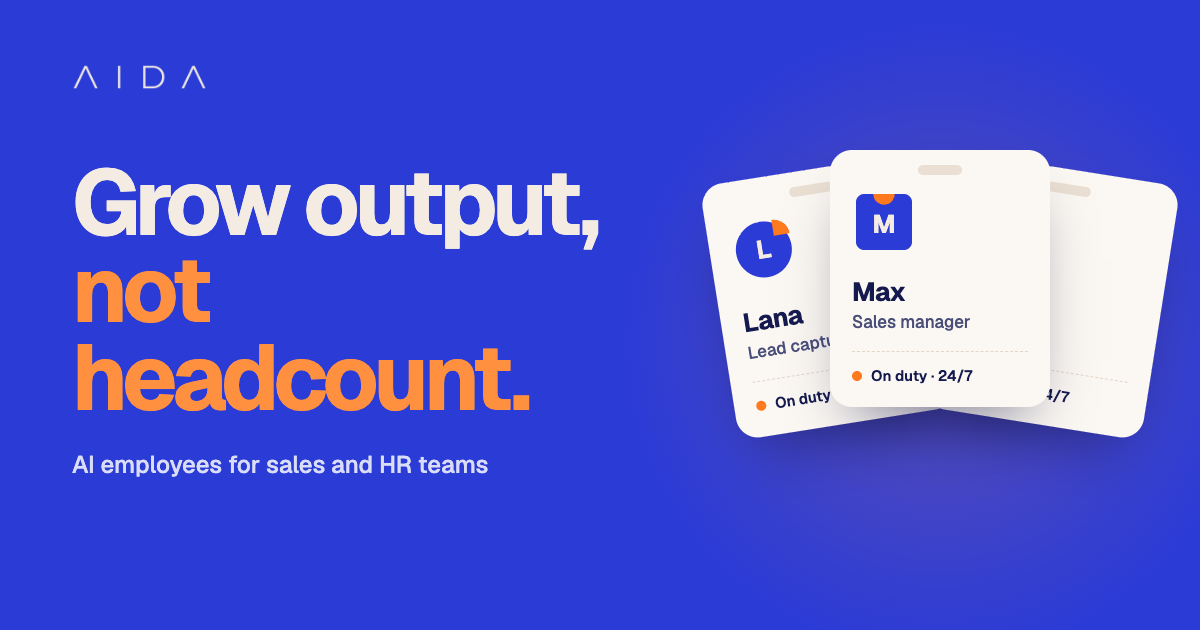
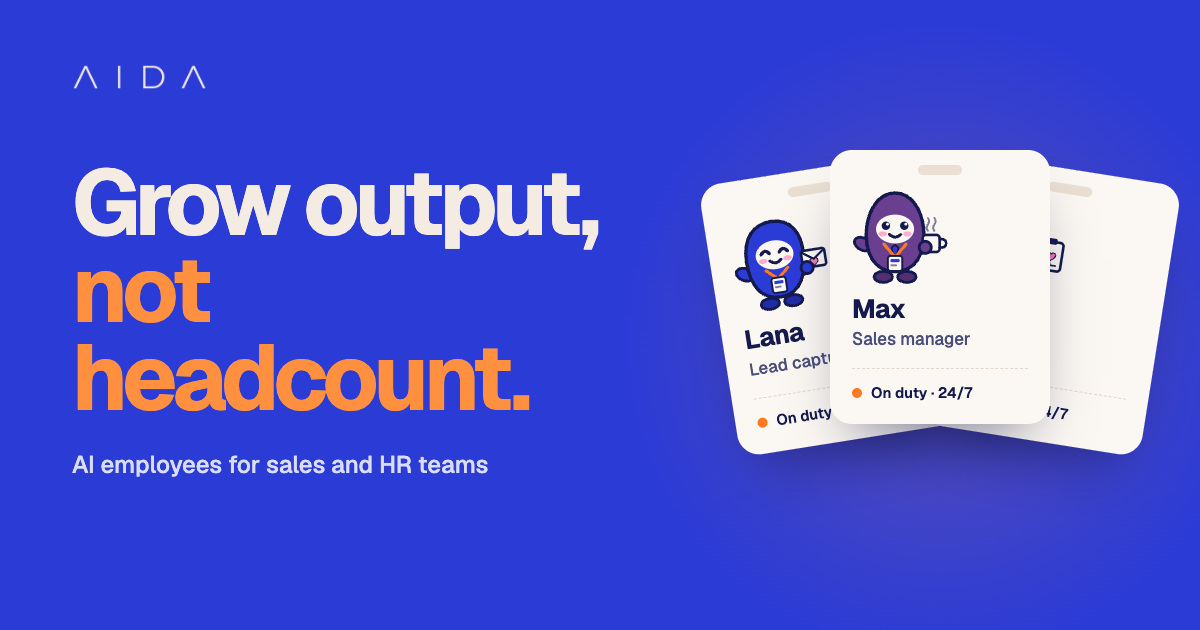
Landing: the AI employees as original characters on their ID cards
Seven characters of our own design, deliberately unlike xAI's Grok bots:
rounded bodies (bean, pear, rounded square, gumdrop, egg, bun, onigiri)
with stubby arms and little feet, a smile, blush, happy-arc or round-dot
eyes (never vertical ovals), an orange lanyard with a staff ID badge and a
prop for the job. Gentle bob, a blink, a job animation; they wave when the
card is hovered; all still under reduced motion. On the ID cards (with a
personality line), in the hero ticker and on the share card. Colour split
at 1440 px stays Clay 56.3 / Blue 33.3 / Orange 9.5.

Built from aida-backend/site.

Changed region(s): [[0.5858, 0.3016, 0.9558, 0.7238], [0.8633, 0.3619, 0.8942, 0.4222]]

diff --git a/index.html b/index.html
@@ -101,18 +101,19 @@ h1.big .hl{display:block}
 .tick-list li{position:absolute;inset:0;display:flex;align-items:center;gap:12px;font-size:15.5px;color:var(--ink);opacity:0;transform:translateY(100%);transition:transform .45s cubic-bezier(.2,.8,.2,1),opacity .45s ease}
 .tick-list li.on{opacity:1;transform:none}
 .tick-list li.off{opacity:0;transform:translateY(-100%)}
-.tick-list .mono{width:34px;height:34px;flex:0 0 34px}
+.tick-list .char{width:50px;height:50px;flex:0 0 50px}
 .tick-list .t{flex:1;line-height:1.3}
 .tick-list .w{font-size:13px;color:var(--muted);white-space:nowrap}
 .ticker.static .tick-list{height:auto}
 .ticker.static .tick-list li{position:static;opacity:1;transform:none;padding:9px 0}
 .cap{font-size:12.5px;color:var(--muted);text-align:center;margin-top:12px}
 .team{padding-top:24px}
-.deck{display:flex;justify-content:center;gap:16px;margin-top:44px;min-height:300px;perspective:1200px}
+.deck{display:flex;justify-content:center;gap:16px;margin-top:44px;perspective:1200px}
 .idc{--r:0deg;--x:0px;flex:0 0 156px;background:var(--clay-2);border:1px solid var(--line);border-radius:18px;padding:30px 16px 16px;position:relative;
   box-shadow:0 14px 30px -20px rgba(20,26,77,.5);transition:transform .6s cubic-bezier(.2,.8,.2,1),box-shadow .25s ease;transform:translateX(var(--x)) rotate(var(--r))}
 .idc::before{content:"";position:absolute;top:11px;left:50%;width:34px;height:8px;margin-left:-17px;border-radius:5px;background:var(--clay-3);box-shadow:inset 0 1px 2px rgba(20,26,77,.25)}
-.idc .mono{width:56px;height:56px;margin-bottom:14px}
+.idc .char{width:84px;height:84px;margin:-8px auto 4px}
+.idc .quip{display:block;font-size:12.5px;font-style:italic;color:var(--ink);margin-top:7px;line-height:1.35}
 .idc b{display:block;font-size:17px;letter-spacing:-.01em;line-height:1.2}
 .idc .role{display:block;font-size:13.5px;color:var(--muted);margin-top:2px}
 .idc .duty{display:flex;align-items:center;gap:8px;font-size:12.5px;font-weight:600;color:var(--ink);margin-top:14px;padding-top:12px;border-top:1px dashed var(--line)}
@@ -252,7 +253,28 @@ footer .logo-w{height:18px;width:auto}
   </div>
 </div></header>
 
-<svg width="0" height="0" style="position:absolute" aria-hidden="true" focusable="false"><defs><symbol id="mono-lana" viewBox="0 0 48 48"><circle cx="24" cy="24" r="21" fill="#2B3BD6"/><path d="M33 3a12 12 0 0 1 12 12H33z" fill="#FF7A1F"/><text x="24" y="30.5" text-anchor="middle" font-family="Geist,system-ui,sans-serif" font-weight="700" font-size="19" fill="#F4ECE3">L</text></symbol><symbol id="mono-rex" viewBox="0 0 48 48"><rect x="3" y="3" width="42" height="42" rx="11" fill="#2B3BD6"/><rect x="3" y="37" width="42" height="8" rx="4" fill="#FF7A1F"/><text x="24" y="29" text-anchor="middle" font-family="Geist,system-ui,sans-serif" font-weight="700" font-size="19" fill="#F4ECE3">R</text></symbol><symbol id="mono-kai" viewBox="0 0 48 48"><path d="M3 45V24A21 21 0 0 1 24 3h21v21A21 21 0 0 1 24 45z" fill="#2B3BD6"/><rect x="35" y="35" width="10" height="10" rx="2" fill="#FF7A1F"/><text x="24" y="30.5" text-anchor="middle" font-family="Geist,system-ui,sans-serif" font-weight="700" font-size="19" fill="#F4ECE3">K</text></symbol><symbol id="mono-mila" viewBox="0 0 48 48"><circle cx="24" cy="24" r="21" fill="#2B3BD6"/><path d="M14 6.5A21 21 0 0 0 14 41.5" stroke="#FF7A1F" stroke-width="5" fill="none" stroke-linecap="round"/><text x="24" y="30.5" text-anchor="middle" font-family="Geist,system-ui,sans-serif" font-weight="700" font-size="19" fill="#F4ECE3">M</text></symbol><symbol id="mono-max" viewBox="0 0 48 48"><rect x="3" y="3" width="42" height="42" rx="6" fill="#2B3BD6"/><path d="M16 3a8 8 0 0 0 16 0z" fill="#FF7A1F"/><text x="24" y="32" text-anchor="middle" font-family="Geist,system-ui,sans-serif" font-weight="700" font-size="19" fill="#F4ECE3">M</text></symbol><symbol id="mono-fin" viewBox="0 0 48 48"><rect x="3" y="3" width="42" height="42" rx="21" fill="#2B3BD6"/><path d="M33 4.5 43.5 15 15 43.5 4.5 33z" fill="#FF7A1F" opacity=".95"/><text x="24" y="30.5" text-anchor="middle" font-family="Geist,system-ui,sans-serif" font-weight="700" font-size="19" fill="#F4ECE3">F</text></symbol><symbol id="mono-hana" viewBox="0 0 48 48"><path d="M3 24a21 21 0 0 1 42 0v21H3z" fill="#2B3BD6"/><rect x="3" y="21" width="42" height="5" fill="#FF7A1F"/><text x="24" y="39" text-anchor="middle" font-family="Geist,system-ui,sans-serif" font-weight="700" font-size="19" fill="#F4ECE3">H</text></symbol></defs></svg>
+<style>
+.char{display:block;overflow:visible}
+.char .ch-bob{animation:chBob 3.2s ease-in-out infinite;animation-delay:var(--d,0s)}
+.char .ch-eyes{transform-box:fill-box;transform-origin:center;animation:chBlink 5.2s infinite;animation-delay:calc(var(--d,0s) * 3)}
+.char .ch-wave{transform-box:view-box;transform-origin:24px 52px}
+.char .pr-wiggle,.char .pr-tilt{transform-box:fill-box;transform-origin:center;animation:chWiggle 2.6s ease-in-out infinite}
+.char .pr-search{animation:chSearch 3.4s ease-in-out infinite}
+.char .pr-glide{animation:chGlide 2.8s ease-in-out infinite}
+.char .pr-write{transform-box:fill-box;transform-origin:20% 90%;animation:chWrite 1.3s ease-in-out infinite}
+.char .pr-steam{animation:chSteam 2.2s ease-out infinite}
+.char .pr-bounce{animation:chBounce 1.6s cubic-bezier(.3,0,.3,1) infinite}
+.wave-on:hover .char .ch-wave,.char.wave-on:hover .ch-wave{animation:chWave 1s ease-in-out 2}
+@keyframes chBob{0%,100%{transform:translateY(0)}50%{transform:translateY(-2.6px)}}
+@keyframes chBlink{0%,93%,100%{transform:scaleY(1)}96%{transform:scaleY(.12)}}
+@keyframes chWiggle{0%,100%{transform:rotate(-7deg)}50%{transform:rotate(7deg)}}
+@keyframes chSearch{0%,100%{transform:translate(0,0)}33%{transform:translate(-2px,1.5px)}66%{transform:translate(1.5px,-1px)}}
+@keyframes chGlide{0%,100%{transform:translate(0,0) rotate(0)}50%{transform:translate(3px,-3.5px) rotate(-4deg)}}
+@keyframes chWrite{0%,100%{transform:rotate(-7deg)}50%{transform:rotate(5deg)}}
+@keyframes chSteam{0%{opacity:0;transform:translateY(2px)}40%{opacity:1}100%{opacity:0;transform:translateY(-4px)}}
+@keyframes chBounce{0%,100%{transform:translateY(0)}40%{transform:translateY(-3.5px)}60%{transform:translateY(-3.5px)}}
+@keyframes chWave{0%,100%{transform:rotate(0)}25%,75%{transform:rotate(-95deg)}50%{transform:rotate(-65deg)}}
+</style>
 <main id="main">
 
 <section class="hero">
@@ -271,11 +293,86 @@ footer .logo-w{height:18px;width:auto}
       <div class="ticker" id="ticker" role="img" aria-label="Illustrative activity: Lana replied to a new enquiry; Kai followed up 4 quotes; Max sent the morning brief; Hana answered a leave question; Fin flagged 2 unpaid invoices.">
         <div class="ticker-h" aria-hidden="true"><span class="live"><span class="dot"></span>Now</span><span>AI employees</span></div>
         <ul class="tick-list" aria-hidden="true">
-          <li><svg class="mono" viewBox="0 0 48 48" aria-hidden="true" focusable="false"><use href="#mono-lana"/></svg><span class="t">Lana replied to a new enquiry</span><span class="w">2 min</span></li>
-          <li><svg class="mono" viewBox="0 0 48 48" aria-hidden="true" focusable="false"><use href="#mono-kai"/></svg><span class="t">Kai followed up 4 quotes</span><span class="w">9:02 am</span></li>
-          <li><svg class="mono" viewBox="0 0 48 48" aria-hidden="true" focusable="false"><use href="#mono-max"/></svg><span class="t">Max sent the morning brief</span><span class="w">8:00 am</span></li>
-          <li><svg class="mono" viewBox="0 0 48 48" aria-hidden="true" focusable="false"><use href="#mono-hana"/></svg><span class="t">Hana answered a leave question</span><span class="w">1 min</span></li>
-          <li><svg class="mono" viewBox="0 0 48 48" aria-hidden="true" focusable="false"><use href="#mono-fin"/></svg><span class="t">Fin flagged 2 unpaid invoices</span><span class="w">10:15 am</span></li>
+          <li><svg class="char " viewBox="0 0 90 90" width="50" height="50" style="--d:0s" aria-hidden="true" focusable="false">
+<g class="ch-bob">
+<g fill="#1F2BA8" stroke="#141A4D" stroke-width="2.2" stroke-linecap="round" stroke-linejoin="round"><ellipse cx="33" cy="80" rx="7" ry="4.2"/><ellipse cx="51" cy="80" rx="7" ry="4.2"/></g>
+<g class="ch-wave"><ellipse cx="17.5" cy="55" rx="7" ry="4.6" transform="rotate(28 17.5 55)" fill="#2B3BD6" stroke="#141A4D" stroke-width="2.2" stroke-linecap="round" stroke-linejoin="round"/></g>
+<ellipse cx="62" cy="57" rx="6.5" ry="4.4" transform="rotate(-25 62 57)" fill="#2B3BD6" stroke="#141A4D" stroke-width="2.2" stroke-linecap="round" stroke-linejoin="round"/>
+<path d="M20 46C20 27 30 18 43 18C56 18 64 27 64 43C64 62 57 76 42 76C27 76 20 64 20 46Z" fill="#2B3BD6" stroke="#141A4D" stroke-width="2.6" stroke-linecap="round" stroke-linejoin="round"/>
+<ellipse cx="42" cy="43.5" rx="14.5" ry="11" fill="#FBF7F2"/>
+<g class="ch-eyes"><path d="M31.8 42q3.2-4.6 6.4 0M45.8 42q3.2-4.6 6.4 0" fill="none" stroke="#141A4D" stroke-width="2.6" stroke-linecap="round" stroke-linejoin="round"/></g>
+<path d="M37.6 47.6q4.4 4.2 8.8 0" fill="none" stroke="#141A4D" stroke-width="2.3" stroke-linecap="round" stroke-linejoin="round"/>
+<ellipse cx="32.6" cy="47.2" rx="3.2" ry="1.9" fill="#FFA3CF" opacity=".9"/><ellipse cx="51.4" cy="47.2" rx="3.2" ry="1.9" fill="#FFA3CF" opacity=".9"/>
+
+<path d="M33.5 54.5L42 62L50.5 54.5" fill="none" stroke="#FF7A1F" stroke-width="2.3" stroke-linecap="round" stroke-linejoin="round"/>
+<rect x="36.5" y="61" width="11" height="11.5" rx="2" fill="#FBF7F2" stroke="#141A4D" stroke-width="1.5" stroke-linecap="round" stroke-linejoin="round"/><rect x="38.5" y="63.4" width="7" height="2.4" rx="1" fill="#2B3BD6"/><rect x="38.5" y="67.4" width="5" height="1.5" rx=".75" fill="#141A4D" opacity=".55"/>
+<g class="ch-prop pr-wiggle"><rect x="62" y="44" width="18" height="13" rx="2" fill="#FBF7F2" stroke="#141A4D" stroke-width="2" stroke-linecap="round" stroke-linejoin="round"/><path d="M62.8 45.2 71 51.4 79.2 45.2" fill="none" stroke="#141A4D" stroke-width="1.7" stroke-linecap="round" stroke-linejoin="round"/><path d="M71 56c-1.7-1.3-3.2-2.3-3.2-3.7 0-1 .8-1.6 1.6-1.6.7 0 1.2.3 1.6.9.4-.6.9-.9 1.6-.9.8 0 1.6.6 1.6 1.6 0 1.4-1.5 2.4-3.2 3.7z" fill="#F27BB5" stroke="#141A4D" stroke-width=".8"/></g>
+<circle cx="65" cy="57" r="4.6" fill="#2B3BD6" stroke="#141A4D" stroke-width="2.2" stroke-linecap="round" stroke-linejoin="round"/>
+</g></svg><span class="t">Lana replied to a new enquiry</span><span class="w">2 min</span></li>
+          <li><svg class="char " viewBox="0 0 90 90" width="50" height="50" style="--d:0.4s" aria-hidden="true" focusable="false">
+<g class="ch-bob">
+<g fill="#D8600F" stroke="#141A4D" stroke-width="2.2" stroke-linecap="round" stroke-linejoin="round"><ellipse cx="33" cy="80" rx="7" ry="4.2"/><ellipse cx="51" cy="80" rx="7" ry="4.2"/></g>
+<g class="ch-wave"><ellipse cx="17.5" cy="55" rx="7" ry="4.6" transform="rotate(28 17.5 55)" fill="#FF7A1F" stroke="#141A4D" stroke-width="2.2" stroke-linecap="round" stroke-linejoin="round"/></g>
+<ellipse cx="61" cy="47" rx="6.5" ry="4.4" transform="rotate(-25 61 47)" fill="#FF7A1F" stroke="#141A4D" stroke-width="2.2" stroke-linecap="round" stroke-linejoin="round"/>
+<path d="M37 19H47C58 19 64 25 64 36V60C64 70 58 76 47 76H37C26 76 20 70 20 60V36C20 25 26 19 37 19Z" fill="#FF7A1F" stroke="#141A4D" stroke-width="2.6" stroke-linecap="round" stroke-linejoin="round"/>
+<ellipse cx="42" cy="43.5" rx="14.5" ry="11" fill="#FBF7F2"/>
+<g class="ch-eyes"><path d="M31.8 42q3.2-4.6 6.4 0M45.8 42q3.2-4.6 6.4 0" fill="none" stroke="#141A4D" stroke-width="2.6" stroke-linecap="round" stroke-linejoin="round"/></g>
+<path d="M37.6 47.6q4.4 4.2 8.8 0" fill="none" stroke="#141A4D" stroke-width="2.3" stroke-linecap="round" stroke-linejoin="round"/>
+<ellipse cx="32.6" cy="47.2" rx="3.2" ry="1.9" fill="#FFA3CF" opacity=".9"/><ellipse cx="51.4" cy="47.2" rx="3.2" ry="1.9" fill="#FFA3CF" opacity=".9"/>
+
+<path d="M33.5 54.5L42 62L50.5 54.5" fill="none" stroke="#FF7A1F" stroke-width="2.3" stroke-linecap="round" stroke-linejoin="round"/>
+<rect x="36.5" y="61" width="11" height="11.5" rx="2" fill="#FBF7F2" stroke="#141A4D" stroke-width="1.5" stroke-linecap="round" stroke-linejoin="round"/><rect x="38.5" y="63.4" width="7" height="2.4" rx="1" fill="#2B3BD6"/><rect x="38.5" y="67.4" width="5" height="1.5" rx=".75" fill="#141A4D" opacity=".55"/>
+<g class="ch-prop pr-glide"><path d="M61 41 84 31 75 51 70.5 44Z" fill="#FBF7F2" stroke="#141A4D" stroke-width="2" stroke-linecap="round" stroke-linejoin="round"/><path d="M70.5 44 84 31" fill="none" stroke="#141A4D" stroke-width="1.5" stroke-linecap="round" stroke-linejoin="round"/></g>
+<circle cx="64" cy="47" r="4.6" fill="#FF7A1F" stroke="#141A4D" stroke-width="2.2" stroke-linecap="round" stroke-linejoin="round"/>
+</g></svg><span class="t">Kai followed up 4 quotes</span><span class="w">9:02 am</span></li>
+          <li><svg class="char " viewBox="0 0 90 90" width="50" height="50" style="--d:0.8s" aria-hidden="true" focusable="false">
+<g class="ch-bob">
+<g fill="#532F70" stroke="#141A4D" stroke-width="2.2" stroke-linecap="round" stroke-linejoin="round"><ellipse cx="33" cy="80" rx="7" ry="4.2"/><ellipse cx="51" cy="80" rx="7" ry="4.2"/></g>
+<g class="ch-wave"><ellipse cx="17.5" cy="55" rx="7" ry="4.6" transform="rotate(28 17.5 55)" fill="#6B3F8F" stroke="#141A4D" stroke-width="2.2" stroke-linecap="round" stroke-linejoin="round"/></g>
+<ellipse cx="62" cy="57.5" rx="6.5" ry="4.4" transform="rotate(-25 62 57.5)" fill="#6B3F8F" stroke="#141A4D" stroke-width="2.2" stroke-linecap="round" stroke-linejoin="round"/>
+<path d="M42 16C56 16 64 32 64 48C64 66 55 76 42 76C29 76 20 66 20 48C20 32 28 16 42 16Z" fill="#6B3F8F" stroke="#141A4D" stroke-width="2.6" stroke-linecap="round" stroke-linejoin="round"/>
+<ellipse cx="42" cy="43.5" rx="14.5" ry="11" fill="#FBF7F2"/>
+<g class="ch-eyes"><circle cx="35" cy="41" r="3.2" fill="#141A4D"/><circle cx="49" cy="41" r="3.2" fill="#141A4D"/><circle cx="36.2" cy="39.8" r="1.1" fill="#fff"/><circle cx="50.2" cy="39.8" r="1.1" fill="#fff"/></g>
+<path d="M37.6 47.6q4.4 4.2 8.8 0" fill="none" stroke="#141A4D" stroke-width="2.3" stroke-linecap="round" stroke-linejoin="round"/>
+<ellipse cx="32.6" cy="47.2" rx="3.2" ry="1.9" fill="#FFA3CF" opacity=".9"/><ellipse cx="51.4" cy="47.2" rx="3.2" ry="1.9" fill="#FFA3CF" opacity=".9"/>
+<path d="M42 55.5l-2.6 2.2 1.6 7.6 1 1.2 1-1.2 1.6-7.6z" fill="#2B3BD6" stroke="#141A4D" stroke-width="1.3" stroke-linecap="round" stroke-linejoin="round"/>
+<path d="M33.5 55L42 65L50.5 55" fill="none" stroke="#FF7A1F" stroke-width="2.3" stroke-linecap="round" stroke-linejoin="round"/>
+<rect x="36.5" y="64" width="11" height="11.5" rx="2" fill="#FBF7F2" stroke="#141A4D" stroke-width="1.5" stroke-linecap="round" stroke-linejoin="round"/><rect x="38.5" y="66.4" width="7" height="2.4" rx="1" fill="#2B3BD6"/><rect x="38.5" y="70.4" width="5" height="1.5" rx=".75" fill="#141A4D" opacity=".55"/>
+<g class="ch-prop"><rect x="63" y="48" width="13" height="13" rx="2.6" fill="#FBF7F2" stroke="#141A4D" stroke-width="2" stroke-linecap="round" stroke-linejoin="round"/><path d="M76 51q5 0 5 3.4t-5 3.4" fill="none" stroke="#141A4D" stroke-width="2" stroke-linecap="round" stroke-linejoin="round"/><g class="pr-steam"><path d="M67 45q-2-2.5 0-5t0-5" fill="none" stroke="#141A4D" stroke-width="1.5" stroke-linecap="round" opacity=".55"/><path d="M72 45q-2-2.5 0-5t0-5" fill="none" stroke="#141A4D" stroke-width="1.5" stroke-linecap="round" opacity=".55"/></g></g>
+<circle cx="65" cy="57.5" r="4.6" fill="#6B3F8F" stroke="#141A4D" stroke-width="2.2" stroke-linecap="round" stroke-linejoin="round"/>
+</g></svg><span class="t">Max sent the morning brief</span><span class="w">8:00 am</span></li>
+          <li><svg class="char " viewBox="0 0 90 90" width="50" height="50" style="--d:1.2000000000000002s" aria-hidden="true" focusable="false">
+<g class="ch-bob">
+<g fill="#22827A" stroke="#141A4D" stroke-width="2.2" stroke-linecap="round" stroke-linejoin="round"><ellipse cx="33" cy="80" rx="7" ry="4.2"/><ellipse cx="51" cy="80" rx="7" ry="4.2"/></g>
+<g class="ch-wave"><ellipse cx="17.5" cy="55" rx="7" ry="4.6" transform="rotate(28 17.5 55)" fill="#2FA39A" stroke="#141A4D" stroke-width="2.2" stroke-linecap="round" stroke-linejoin="round"/></g>
+<ellipse cx="61.5" cy="57.5" rx="6.5" ry="4.4" transform="rotate(-25 61.5 57.5)" fill="#2FA39A" stroke="#141A4D" stroke-width="2.2" stroke-linecap="round" stroke-linejoin="round"/>
+<path d="M42 17C50 17 66 50 64 63C62 74 22 74 20 63C18 50 34 17 42 17Z" fill="#2FA39A" stroke="#141A4D" stroke-width="2.6" stroke-linecap="round" stroke-linejoin="round"/>
+<ellipse cx="42" cy="43.5" rx="14.5" ry="11" fill="#FBF7F2"/>
+<g class="ch-eyes"><path d="M31.8 42q3.2-4.6 6.4 0M45.8 42q3.2-4.6 6.4 0" fill="none" stroke="#141A4D" stroke-width="2.6" stroke-linecap="round" stroke-linejoin="round"/></g>
+<path d="M37.6 47.6q4.4 4.2 8.8 0" fill="none" stroke="#141A4D" stroke-width="2.3" stroke-linecap="round" stroke-linejoin="round"/>
+<ellipse cx="32.6" cy="47.2" rx="3.2" ry="1.9" fill="#FFA3CF" opacity=".9"/><ellipse cx="51.4" cy="47.2" rx="3.2" ry="1.9" fill="#FFA3CF" opacity=".9"/>
+
+<path d="M33.5 54.5L42 62L50.5 54.5" fill="none" stroke="#FF7A1F" stroke-width="2.3" stroke-linecap="round" stroke-linejoin="round"/>
+<rect x="36.5" y="61" width="11" height="11.5" rx="2" fill="#FBF7F2" stroke="#141A4D" stroke-width="1.5" stroke-linecap="round" stroke-linejoin="round"/><rect x="38.5" y="63.4" width="7" height="2.4" rx="1" fill="#2B3BD6"/><rect x="38.5" y="67.4" width="5" height="1.5" rx=".75" fill="#141A4D" opacity=".55"/>
+<g class="ch-prop pr-tilt"><rect x="61" y="40" width="17" height="22" rx="2.6" fill="#FBF7F2" stroke="#141A4D" stroke-width="2" stroke-linecap="round" stroke-linejoin="round"/><rect x="66" y="37.4" width="7" height="4.6" rx="1.6" fill="#141A4D"/><path d="M69.5 54.5c-2-1.5-3.7-2.7-3.7-4.3 0-1.1.9-1.9 1.9-1.9.8 0 1.4.4 1.8 1 .4-.6 1-1 1.8-1 1 0 1.9.8 1.9 1.9 0 1.6-1.7 2.8-3.7 4.3z" fill="#F27BB5" stroke="#141A4D" stroke-width=".8"/><path d="M65 58h9" stroke="#141A4D" stroke-width="1.3" stroke-linecap="round" stroke-linejoin="round"/></g>
+<circle cx="64.5" cy="57.5" r="4.6" fill="#2FA39A" stroke="#141A4D" stroke-width="2.2" stroke-linecap="round" stroke-linejoin="round"/>
+</g></svg><span class="t">Hana answered a leave question</span><span class="w">1 min</span></li>
+          <li><svg class="char " viewBox="0 0 90 90" width="50" height="50" style="--d:1.6s" aria-hidden="true" focusable="false">
+<g class="ch-bob">
+<g fill="#C9941F" stroke="#141A4D" stroke-width="2.2" stroke-linecap="round" stroke-linejoin="round"><ellipse cx="33" cy="80" rx="7" ry="4.2"/><ellipse cx="51" cy="80" rx="7" ry="4.2"/></g>
+<g class="ch-wave"><ellipse cx="17.5" cy="55" rx="7" ry="4.6" transform="rotate(28 17.5 55)" fill="#E8B23A" stroke="#141A4D" stroke-width="2.2" stroke-linecap="round" stroke-linejoin="round"/></g>
+<ellipse cx="62" cy="58" rx="6.5" ry="4.4" transform="rotate(-25 62 58)" fill="#E8B23A" stroke="#141A4D" stroke-width="2.2" stroke-linecap="round" stroke-linejoin="round"/>
+<path d="M42 20C57 20 66 31 66 47C66 64 56 76 42 76C28 76 18 64 18 47C18 31 27 20 42 20Z" fill="#E8B23A" stroke="#141A4D" stroke-width="2.6" stroke-linecap="round" stroke-linejoin="round"/>
+<ellipse cx="42" cy="43.5" rx="14.5" ry="11" fill="#FBF7F2"/>
+<g class="ch-eyes"><path d="M31.8 42q3.2-4.6 6.4 0M45.8 42q3.2-4.6 6.4 0" fill="none" stroke="#141A4D" stroke-width="2.6" stroke-linecap="round" stroke-linejoin="round"/></g>
+<path d="M37.6 47.6q4.4 4.2 8.8 0" fill="none" stroke="#141A4D" stroke-width="2.3" stroke-linecap="round" stroke-linejoin="round"/>
+<ellipse cx="32.6" cy="47.2" rx="3.2" ry="1.9" fill="#FFA3CF" opacity=".9"/><ellipse cx="51.4" cy="47.2" rx="3.2" ry="1.9" fill="#FFA3CF" opacity=".9"/>
+
+<path d="M33.5 54.5L42 62L50.5 54.5" fill="none" stroke="#FF7A1F" stroke-width="2.3" stroke-linecap="round" stroke-linejoin="round"/>
+<rect x="36.5" y="61" width="11" height="11.5" rx="2" fill="#FBF7F2" stroke="#141A4D" stroke-width="1.5" stroke-linecap="round" stroke-linejoin="round"/><rect x="38.5" y="63.4" width="7" height="2.4" rx="1" fill="#2B3BD6"/><rect x="38.5" y="67.4" width="5" height="1.5" rx=".75" fill="#141A4D" opacity=".55"/>
+<g class="ch-prop pr-bounce"><path d="M64 60v2.6a8 3 0 0 0 16 0V60" fill="#FFE08A" stroke="#141A4D" stroke-width="1.7" stroke-linecap="round" stroke-linejoin="round"/><ellipse cx="72" cy="60" rx="8" ry="3" fill="#FFE9A8" stroke="#141A4D" stroke-width="1.7" stroke-linecap="round" stroke-linejoin="round"/><path d="M64 55v2.6a8 3 0 0 0 16 0V55" fill="#FFE08A" stroke="#141A4D" stroke-width="1.7" stroke-linecap="round" stroke-linejoin="round"/><ellipse cx="72" cy="55" rx="8" ry="3" fill="#FFE9A8" stroke="#141A4D" stroke-width="1.7" stroke-linecap="round" stroke-linejoin="round"/><path d="M64 50v2.6a8 3 0 0 0 16 0V50" fill="#FFE08A" stroke="#141A4D" stroke-width="1.7" stroke-linecap="round" stroke-linejoin="round"/><ellipse cx="72" cy="50" rx="8" ry="3" fill="#FFE9A8" stroke="#141A4D" stroke-width="1.7" stroke-linecap="round" stroke-linejoin="round"/><circle cx="80" cy="42.5" r="5" fill="#6BAF6E" stroke="#141A4D" stroke-width="1.6" stroke-linecap="round" stroke-linejoin="round"/><path d="M77.8 42.6l1.6 1.6 3-3.2" fill="none" stroke="#fff" stroke-width="1.6" stroke-linecap="round" stroke-linejoin="round"/></g>
+<circle cx="65" cy="58" r="4.6" fill="#E8B23A" stroke="#141A4D" stroke-width="2.2" stroke-linecap="round" stroke-linejoin="round"/>
+</g></svg><span class="t">Fin flagged 2 unpaid invoices</span><span class="w">10:15 am</span></li>
         </ul>
       </div>
       <figcaption class="cap">Illustrative.</figcaption>
@@ -286,38 +383,150 @@ footer .logo-w{height:18px;width:auto}
 <section class="sec team" id="team" aria-labelledby="team-h"><div class="wrap center">
   <h2 class="h2 reveal" id="team-h">Your new team <span class="hl">never sleeps.</span></h2>
   <div class="deck" id="deck">
-    <article class="idc" style="--x:354px;--r:-15.0deg;z-index:7">
-      <svg class="mono" viewBox="0 0 48 48" aria-hidden="true" focusable="false"><use href="#mono-lana"/></svg><b>Lana</b><span class="role">Lead capture</span>
+    <article class="idc wave-on" style="--x:354px;--r:-15.0deg;z-index:7">
+      <svg class="char " viewBox="0 0 90 90" width="84" height="84" style="--d:0s" aria-hidden="true" focusable="false">
+<g class="ch-bob">
+<g fill="#1F2BA8" stroke="#141A4D" stroke-width="2.2" stroke-linecap="round" stroke-linejoin="round"><ellipse cx="33" cy="80" rx="7" ry="4.2"/><ellipse cx="51" cy="80" rx="7" ry="4.2"/></g>
+<g class="ch-wave"><ellipse cx="17.5" cy="55" rx="7" ry="4.6" transform="rotate(28 17.5 55)" fill="#2B3BD6" stroke="#141A4D" stroke-width="2.2" stroke-linecap="round" stroke-linejoin="round"/></g>
+<ellipse cx="62" cy="57" rx="6.5" ry="4.4" transform="rotate(-25 62 57)" fill="#2B3BD6" stroke="#141A4D" stroke-width="2.2" stroke-linecap="round" stroke-linejoin="round"/>
+<path d="M20 46C20 27 30 18 43 18C56 18 64 27 64 43C64 62 57 76 42 76C27 76 20 64 20 46Z" fill="#2B3BD6" stroke="#141A4D" stroke-width="2.6" stroke-linecap="round" stroke-linejoin="round"/>
+<ellipse cx="42" cy="43.5" rx="14.5" ry="11" fill="#FBF7F2"/>
+<g class="ch-eyes"><path d="M31.8 42q3.2-4.6 6.4 0M45.8 42q3.2-4.6 6.4 0" fill="none" stroke="#141A4D" stroke-width="2.6" stroke-linecap="round" stroke-linejoin="round"/></g>
+<path d="M37.6 47.6q4.4 4.2 8.8 0" fill="none" stroke="#141A4D" stroke-width="2.3" stroke-linecap="round" stroke-linejoin="round"/>
+<ellipse cx="32.6" cy="47.2" rx="3.2" ry="1.9" fill="#FFA3CF" opacity=".9"/><ellipse cx="51.4" cy="47.2" rx="3.2" ry="1.9" fill="#FFA3CF" opacity=".9"/>
+
+<path d="M33.5 54.5L42 62L50.5 54.5" fill="none" stroke="#FF7A1F" stroke-width="2.3" stroke-linecap="round" stroke-linejoin="round"/>
+<rect x="36.5" y="61" width="11" height="11.5" rx="2" fill="#FBF7F2" stroke="#141A4D" stroke-width="1.5" stroke-linecap="round" stroke-linejoin="round"/><rect x="38.5" y="63.4" width="7" height="2.4" rx="1" fill="#2B3BD6"/><rect x="38.5" y="67.4" width="5" height="1.5" rx=".75" fill="#141A4D" opacity=".55"/>
+<g class="ch-prop pr-wiggle"><rect x="62" y="44" width="18" height="13" rx="2" fill="#FBF7F2" stroke="#141A4D" stroke-width="2" stroke-linecap="round" stroke-linejoin="round"/><path d="M62.8 45.2 71 51.4 79.2 45.2" fill="none" stroke="#141A4D" stroke-width="1.7" stroke-linecap="round" stroke-linejoin="round"/><path d="M71 56c-1.7-1.3-3.2-2.3-3.2-3.7 0-1 .8-1.6 1.6-1.6.7 0 1.2.3 1.6.9.4-.6.9-.9 1.6-.9.8 0 1.6.6 1.6 1.6 0 1.4-1.5 2.4-3.2 3.7z" fill="#F27BB5" stroke="#141A4D" stroke-width=".8"/></g>
+<circle cx="65" cy="57" r="4.6" fill="#2B3BD6" stroke="#141A4D" stroke-width="2.2" stroke-linecap="round" stroke-linejoin="round"/>
+</g></svg><b>Lana</b><span class="role">Lead capture</span>
+      <span class="quip">&ldquo;Never misses a hello.&rdquo;</span>
       <div class="duty"><span class="dot" aria-hidden="true"></span>On duty &middot; 24/7</div>
       <div class="today">Today: 12 enquiries replied</div>
     </article>
-    <article class="idc" style="--x:236px;--r:-10.0deg;z-index:8">
-      <svg class="mono" viewBox="0 0 48 48" aria-hidden="true" focusable="false"><use href="#mono-rex"/></svg><b>Rex</b><span class="role">Lead research</span>
+    <article class="idc wave-on" style="--x:236px;--r:-10.0deg;z-index:8">
+      <svg class="char " viewBox="0 0 90 90" width="84" height="84" style="--d:0.37s" aria-hidden="true" focusable="false">
+<g class="ch-bob">
+<g fill="#4E8F52" stroke="#141A4D" stroke-width="2.2" stroke-linecap="round" stroke-linejoin="round"><ellipse cx="33" cy="80" rx="7" ry="4.2"/><ellipse cx="51" cy="80" rx="7" ry="4.2"/></g>
+<g class="ch-wave"><ellipse cx="17.5" cy="55" rx="7" ry="4.6" transform="rotate(28 17.5 55)" fill="#6BAF6E" stroke="#141A4D" stroke-width="2.2" stroke-linecap="round" stroke-linejoin="round"/></g>
+<ellipse cx="62.5" cy="58.5" rx="6.5" ry="4.4" transform="rotate(-25 62.5 58.5)" fill="#6BAF6E" stroke="#141A4D" stroke-width="2.2" stroke-linecap="round" stroke-linejoin="round"/>
+<path d="M42 18C53 18 57 29 57 36C63 44 66 55 63 64C60 74 24 74 21 64C18 55 21 44 27 36C27 29 31 18 42 18Z" fill="#6BAF6E" stroke="#141A4D" stroke-width="2.6" stroke-linecap="round" stroke-linejoin="round"/>
+<ellipse cx="42" cy="43.5" rx="14.5" ry="11" fill="#FBF7F2"/>
+<g class="ch-eyes"><circle cx="35" cy="41" r="3.2" fill="#141A4D"/><circle cx="49" cy="41" r="3.2" fill="#141A4D"/><circle cx="36.2" cy="39.8" r="1.1" fill="#fff"/><circle cx="50.2" cy="39.8" r="1.1" fill="#fff"/></g>
+<path d="M37.6 47.6q4.4 4.2 8.8 0" fill="none" stroke="#141A4D" stroke-width="2.3" stroke-linecap="round" stroke-linejoin="round"/>
+<ellipse cx="32.6" cy="47.2" rx="3.2" ry="1.9" fill="#FFA3CF" opacity=".9"/><ellipse cx="51.4" cy="47.2" rx="3.2" ry="1.9" fill="#FFA3CF" opacity=".9"/>
+
+<path d="M33.5 54.5L42 62L50.5 54.5" fill="none" stroke="#FF7A1F" stroke-width="2.3" stroke-linecap="round" stroke-linejoin="round"/>
+<rect x="36.5" y="61" width="11" height="11.5" rx="2" fill="#FBF7F2" stroke="#141A4D" stroke-width="1.5" stroke-linecap="round" stroke-linejoin="round"/><rect x="38.5" y="63.4" width="7" height="2.4" rx="1" fill="#2B3BD6"/><rect x="38.5" y="67.4" width="5" height="1.5" rx=".75" fill="#141A4D" opacity=".55"/>
+<g class="ch-prop pr-search"><path d="M66 59 71.5 52" fill="none" stroke="#141A4D" stroke-width="3.4" stroke-linecap="round" stroke-linejoin="round"/><circle cx="74.5" cy="46.5" r="7.2" fill="#E6F1E6" stroke="#141A4D" stroke-width="2.4" stroke-linecap="round" stroke-linejoin="round"/><path d="M71 44.8q1.8-2.6 5-1.8" fill="none" stroke="#fff" stroke-width="1.7" stroke-linecap="round"/></g>
+<circle cx="65.5" cy="58.5" r="4.6" fill="#6BAF6E" stroke="#141A4D" stroke-width="2.2" stroke-linecap="round" stroke-linejoin="round"/>
+</g></svg><b>Rex</b><span class="role">Lead research</span>
+      <span class="quip">&ldquo;Loves a good deep dive.&rdquo;</span>
       <div class="duty"><span class="dot" aria-hidden="true"></span>On duty &middot; 24/7</div>
       <div class="today">Today: 30 leads researched</div>
     </article>
-    <article class="idc" style="--x:118px;--r:-5.0deg;z-index:9">
-      <svg class="mono" viewBox="0 0 48 48" aria-hidden="true" focusable="false"><use href="#mono-kai"/></svg><b>Kai</b><span class="role">Outreach</span>
+    <article class="idc wave-on" style="--x:118px;--r:-5.0deg;z-index:9">
+      <svg class="char " viewBox="0 0 90 90" width="84" height="84" style="--d:0.74s" aria-hidden="true" focusable="false">
+<g class="ch-bob">
+<g fill="#D8600F" stroke="#141A4D" stroke-width="2.2" stroke-linecap="round" stroke-linejoin="round"><ellipse cx="33" cy="80" rx="7" ry="4.2"/><ellipse cx="51" cy="80" rx="7" ry="4.2"/></g>
+<g class="ch-wave"><ellipse cx="17.5" cy="55" rx="7" ry="4.6" transform="rotate(28 17.5 55)" fill="#FF7A1F" stroke="#141A4D" stroke-width="2.2" stroke-linecap="round" stroke-linejoin="round"/></g>
+<ellipse cx="61" cy="47" rx="6.5" ry="4.4" transform="rotate(-25 61 47)" fill="#FF7A1F" stroke="#141A4D" stroke-width="2.2" stroke-linecap="round" stroke-linejoin="round"/>
+<path d="M37 19H47C58 19 64 25 64 36V60C64 70 58 76 47 76H37C26 76 20 70 20 60V36C20 25 26 19 37 19Z" fill="#FF7A1F" stroke="#141A4D" stroke-width="2.6" stroke-linecap="round" stroke-linejoin="round"/>
+<ellipse cx="42" cy="43.5" rx="14.5" ry="11" fill="#FBF7F2"/>
+<g class="ch-eyes"><path d="M31.8 42q3.2-4.6 6.4 0M45.8 42q3.2-4.6 6.4 0" fill="none" stroke="#141A4D" stroke-width="2.6" stroke-linecap="round" stroke-linejoin="round"/></g>
+<path d="M37.6 47.6q4.4 4.2 8.8 0" fill="none" stroke="#141A4D" stroke-width="2.3" stroke-linecap="round" stroke-linejoin="round"/>
+<ellipse cx="32.6" cy="47.2" rx="3.2" ry="1.9" fill="#FFA3CF" opacity=".9"/><ellipse cx="51.4" cy="47.2" rx="3.2" ry="1.9" fill="#FFA3CF" opacity=".9"/>
+
+<path d="M33.5 54.5L42 62L50.5 54.5" fill="none" stroke="#FF7A1F" stroke-width="2.3" stroke-linecap="round" stroke-linejoin="round"/>
+<rect x="36.5" y="61" width="11" height="11.5" rx="2" fill="#FBF7F2" stroke="#141A4D" stroke-width="1.5" stroke-linecap="round" stroke-linejoin="round"/><rect x="38.5" y="63.4" width="7" height="2.4" rx="1" fill="#2B3BD6"/><rect x="38.5" y="67.4" width="5" height="1.5" rx=".75" fill="#141A4D" opacity=".55"/>
+<g class="ch-prop pr-glide"><path d="M61 41 84 31 75 51 70.5 44Z" fill="#FBF7F2" stroke="#141A4D" stroke-width="2" stroke-linecap="round" stroke-linejoin="round"/><path d="M70.5 44 84 31" fill="none" stroke="#141A4D" stroke-width="1.5" stroke-linecap="round" stroke-linejoin="round"/></g>
+<circle cx="64" cy="47" r="4.6" fill="#FF7A1F" stroke="#141A4D" stroke-width="2.2" stroke-linecap="round" stroke-linejoin="round"/>
+</g></svg><b>Kai</b><span class="role">Outreach</span>
+      <span class="quip">&ldquo;Follows up so you don’t have to.&rdquo;</span>
       <div class="duty"><span class="dot" aria-hidden="true"></span>On duty &middot; 24/7</div>
       <div class="today">Today: 18 follow-ups sent</div>
     </article>
-    <article class="idc" style="--x:0px;--r:0.0deg;z-index:10">
-      <svg class="mono" viewBox="0 0 48 48" aria-hidden="true" focusable="false"><use href="#mono-mila"/></svg><b>Mila</b><span class="role">Proposals</span>
+    <article class="idc wave-on" style="--x:0px;--r:0.0deg;z-index:10">
+      <svg class="char " viewBox="0 0 90 90" width="84" height="84" style="--d:1.11s" aria-hidden="true" focusable="false">
+<g class="ch-bob">
+<g fill="#D95C9A" stroke="#141A4D" stroke-width="2.2" stroke-linecap="round" stroke-linejoin="round"><ellipse cx="33" cy="80" rx="7" ry="4.2"/><ellipse cx="51" cy="80" rx="7" ry="4.2"/></g>
+<g class="ch-wave"><ellipse cx="17.5" cy="55" rx="7" ry="4.6" transform="rotate(28 17.5 55)" fill="#F27BB5" stroke="#141A4D" stroke-width="2.2" stroke-linecap="round" stroke-linejoin="round"/></g>
+<ellipse cx="61.5" cy="57" rx="6.5" ry="4.4" transform="rotate(-25 61.5 57)" fill="#F27BB5" stroke="#141A4D" stroke-width="2.2" stroke-linecap="round" stroke-linejoin="round"/>
+<path d="M20 73V47C20 29 30 18 42 18C54 18 64 29 64 47V73Q64 76 61 76H23Q20 76 20 73Z" fill="#F27BB5" stroke="#141A4D" stroke-width="2.6" stroke-linecap="round" stroke-linejoin="round"/>
+<ellipse cx="42" cy="43.5" rx="14.5" ry="11" fill="#FBF7F2"/>
+<g class="ch-eyes"><circle cx="35" cy="41" r="3.2" fill="#141A4D"/><circle cx="49" cy="41" r="3.2" fill="#141A4D"/><circle cx="36.2" cy="39.8" r="1.1" fill="#fff"/><circle cx="50.2" cy="39.8" r="1.1" fill="#fff"/></g>
+<path d="M37.6 47.6q4.4 4.2 8.8 0" fill="none" stroke="#141A4D" stroke-width="2.3" stroke-linecap="round" stroke-linejoin="round"/>
+<ellipse cx="32.6" cy="47.2" rx="3.2" ry="1.9" fill="#FFA3CF" opacity=".9"/><ellipse cx="51.4" cy="47.2" rx="3.2" ry="1.9" fill="#FFA3CF" opacity=".9"/>
+
+<path d="M33.5 54.5L42 62L50.5 54.5" fill="none" stroke="#FF7A1F" stroke-width="2.3" stroke-linecap="round" stroke-linejoin="round"/>
+<rect x="36.5" y="61" width="11" height="11.5" rx="2" fill="#FBF7F2" stroke="#141A4D" stroke-width="1.5" stroke-linecap="round" stroke-linejoin="round"/><rect x="38.5" y="63.4" width="7" height="2.4" rx="1" fill="#2B3BD6"/><rect x="38.5" y="67.4" width="5" height="1.5" rx=".75" fill="#141A4D" opacity=".55"/>
+<g class="ch-prop"><rect x="61" y="39" width="16" height="20" rx="2" fill="#FBF7F2" stroke="#141A4D" stroke-width="2" stroke-linecap="round" stroke-linejoin="round"/><path d="M69 42.5l1.3 2.7 3 .4-2.2 2.1.5 3-2.6-1.4-2.6 1.4.5-3-2.2-2.1 3-.4z" fill="#E8B23A" stroke="#141A4D" stroke-width=".8" stroke-linejoin="round"/><path d="M64 53.5h10M64 56.5h7" stroke="#141A4D" stroke-width="1.3" stroke-linecap="round" stroke-linejoin="round"/><g class="pr-write"><path d="M74 63 83 47.5 86.5 49.5 77.5 65 73.5 66Z" fill="#FF7A1F" stroke="#141A4D" stroke-width="1.6" stroke-linecap="round" stroke-linejoin="round"/><path d="M81.5 51.5 85 53.5" stroke="#141A4D" stroke-width="1.2" stroke-linecap="round" stroke-linejoin="round"/></g></g>
+<circle cx="64.5" cy="57" r="4.6" fill="#F27BB5" stroke="#141A4D" stroke-width="2.2" stroke-linecap="round" stroke-linejoin="round"/>
+</g></svg><b>Mila</b><span class="role">Proposals</span>
+      <span class="quip">&ldquo;Writes proposals before your coffee.&rdquo;</span>
       <div class="duty"><span class="dot" aria-hidden="true"></span>On duty &middot; 24/7</div>
       <div class="today">Today: 4 proposals drafted</div>
     </article>
-    <article class="idc" style="--x:-118px;--r:5.0deg;z-index:9">
-      <svg class="mono" viewBox="0 0 48 48" aria-hidden="true" focusable="false"><use href="#mono-max"/></svg><b>Max</b><span class="role">Sales manager</span>
+    <article class="idc wave-on" style="--x:-118px;--r:5.0deg;z-index:9">
+      <svg class="char " viewBox="0 0 90 90" width="84" height="84" style="--d:1.48s" aria-hidden="true" focusable="false">
+<g class="ch-bob">
+<g fill="#532F70" stroke="#141A4D" stroke-width="2.2" stroke-linecap="round" stroke-linejoin="round"><ellipse cx="33" cy="80" rx="7" ry="4.2"/><ellipse cx="51" cy="80" rx="7" ry="4.2"/></g>
+<g class="ch-wave"><ellipse cx="17.5" cy="55" rx="7" ry="4.6" transform="rotate(28 17.5 55)" fill="#6B3F8F" stroke="#141A4D" stroke-width="2.2" stroke-linecap="round" stroke-linejoin="round"/></g>
+<ellipse cx="62" cy="57.5" rx="6.5" ry="4.4" transform="rotate(-25 62 57.5)" fill="#6B3F8F" stroke="#141A4D" stroke-width="2.2" stroke-linecap="round" stroke-linejoin="round"/>
+<path d="M42 16C56 16 64 32 64 48C64 66 55 76 42 76C29 76 20 66 20 48C20 32 28 16 42 16Z" fill="#6B3F8F" stroke="#141A4D" stroke-width="2.6" stroke-linecap="round" stroke-linejoin="round"/>
+<ellipse cx="42" cy="43.5" rx="14.5" ry="11" fill="#FBF7F2"/>
+<g class="ch-eyes"><circle cx="35" cy="41" r="3.2" fill="#141A4D"/><circle cx="49" cy="41" r="3.2" fill="#141A4D"/><circle cx="36.2" cy="39.8" r="1.1" fill="#fff"/><circle cx="50.2" cy="39.8" r="1.1" fill="#fff"/></g>
+<path d="M37.6 47.6q4.4 4.2 8.8 0" fill="none" stroke="#141A4D" stroke-width="2.3" stroke-linecap="round" stroke-linejoin="round"/>
+<ellipse cx="32.6" cy="47.2" rx="3.2" ry="1.9" fill="#FFA3CF" opacity=".9"/><ellipse cx="51.4" cy="47.2" rx="3.2" ry="1.9" fill="#FFA3CF" opacity=".9"/>
+<path d="M42 55.5l-2.6 2.2 1.6 7.6 1 1.2 1-1.2 1.6-7.6z" fill="#2B3BD6" stroke="#141A4D" stroke-width="1.3" stroke-linecap="round" stroke-linejoin="round"/>
+<path d="M33.5 55L42 65L50.5 55" fill="none" stroke="#FF7A1F" stroke-width="2.3" stroke-linecap="round" stroke-linejoin="round"/>
+<rect x="36.5" y="64" width="11" height="11.5" rx="2" fill="#FBF7F2" stroke="#141A4D" stroke-width="1.5" stroke-linecap="round" stroke-linejoin="round"/><rect x="38.5" y="66.4" width="7" height="2.4" rx="1" fill="#2B3BD6"/><rect x="38.5" y="70.4" width="5" height="1.5" rx=".75" fill="#141A4D" opacity=".55"/>
+<g class="ch-prop"><rect x="63" y="48" width="13" height="13" rx="2.6" fill="#FBF7F2" stroke="#141A4D" stroke-width="2" stroke-linecap="round" stroke-linejoin="round"/><path d="M76 51q5 0 5 3.4t-5 3.4" fill="none" stroke="#141A4D" stroke-width="2" stroke-linecap="round" stroke-linejoin="round"/><g class="pr-steam"><path d="M67 45q-2-2.5 0-5t0-5" fill="none" stroke="#141A4D" stroke-width="1.5" stroke-linecap="round" opacity=".55"/><path d="M72 45q-2-2.5 0-5t0-5" fill="none" stroke="#141A4D" stroke-width="1.5" stroke-linecap="round" opacity=".55"/></g></g>
+<circle cx="65" cy="57.5" r="4.6" fill="#6B3F8F" stroke="#141A4D" stroke-width="2.2" stroke-linecap="round" stroke-linejoin="round"/>
+</g></svg><b>Max</b><span class="role">Sales manager</span>
+      <span class="quip">&ldquo;Your 8am briefing buddy.&rdquo;</span>
       <div class="duty"><span class="dot" aria-hidden="true"></span>On duty &middot; 24/7</div>
       <div class="today">Today: 1 morning brief sent</div>
     </article>
-    <article class="idc" style="--x:-236px;--r:10.0deg;z-index:8">
-      <svg class="mono" viewBox="0 0 48 48" aria-hidden="true" focusable="false"><use href="#mono-fin"/></svg><b>Fin</b><span class="role">Finance</span>
+    <article class="idc wave-on" style="--x:-236px;--r:10.0deg;z-index:8">
+      <svg class="char " viewBox="0 0 90 90" width="84" height="84" style="--d:1.85s" aria-hidden="true" focusable="false">
+<g class="ch-bob">
+<g fill="#C9941F" stroke="#141A4D" stroke-width="2.2" stroke-linecap="round" stroke-linejoin="round"><ellipse cx="33" cy="80" rx="7" ry="4.2"/><ellipse cx="51" cy="80" rx="7" ry="4.2"/></g>
+<g class="ch-wave"><ellipse cx="17.5" cy="55" rx="7" ry="4.6" transform="rotate(28 17.5 55)" fill="#E8B23A" stroke="#141A4D" stroke-width="2.2" stroke-linecap="round" stroke-linejoin="round"/></g>
+<ellipse cx="62" cy="58" rx="6.5" ry="4.4" transform="rotate(-25 62 58)" fill="#E8B23A" stroke="#141A4D" stroke-width="2.2" stroke-linecap="round" stroke-linejoin="round"/>
+<path d="M42 20C57 20 66 31 66 47C66 64 56 76 42 76C28 76 18 64 18 47C18 31 27 20 42 20Z" fill="#E8B23A" stroke="#141A4D" stroke-width="2.6" stroke-linecap="round" stroke-linejoin="round"/>
+<ellipse cx="42" cy="43.5" rx="14.5" ry="11" fill="#FBF7F2"/>
+<g class="ch-eyes"><path d="M31.8 42q3.2-4.6 6.4 0M45.8 42q3.2-4.6 6.4 0" fill="none" stroke="#141A4D" stroke-width="2.6" stroke-linecap="round" stroke-linejoin="round"/></g>
+<path d="M37.6 47.6q4.4 4.2 8.8 0" fill="none" stroke="#141A4D" stroke-width="2.3" stroke-linecap="round" stroke-linejoin="round"/>
+<ellipse cx="32.6" cy="47.2" rx="3.2" ry="1.9" fill="#FFA3CF" opacity=".9"/><ellipse cx="51.4" cy="47.2" rx="3.2" ry="1.9" fill="#FFA3CF" opacity=".9"/>
+
+<path d="M33.5 54.5L42 62L50.5 54.5" fill="none" stroke="#FF7A1F" stroke-width="2.3" stroke-linecap="round" stroke-linejoin="round"/>
+<rect x="36.5" y="61" width="11" height="11.5" rx="2" fill="#FBF7F2" stroke="#141A4D" stroke-width="1.5" stroke-linecap="round" stroke-linejoin="round"/><rect x="38.5" y="63.4" width="7" height="2.4" rx="1" fill="#2B3BD6"/><rect x="38.5" y="67.4" width="5" height="1.5" rx=".75" fill="#141A4D" opacity=".55"/>
+<g class="ch-prop pr-bounce"><path d="M64 60v2.6a8 3 0 0 0 16 0V60" fill="#FFE08A" stroke="#141A4D" stroke-width="1.7" stroke-linecap="round" stroke-linejoin="round"/><ellipse cx="72" cy="60" rx="8" ry="3" fill="#FFE9A8" stroke="#141A4D" stroke-width="1.7" stroke-linecap="round" stroke-linejoin="round"/><path d="M64 55v2.6a8 3 0 0 0 16 0V55" fill="#FFE08A" stroke="#141A4D" stroke-width="1.7" stroke-linecap="round" stroke-linejoin="round"/><ellipse cx="72" cy="55" rx="8" ry="3" fill="#FFE9A8" stroke="#141A4D" stroke-width="1.7" stroke-linecap="round" stroke-linejoin="round"/><path d="M64 50v2.6a8 3 0 0 0 16 0V50" fill="#FFE08A" stroke="#141A4D" stroke-width="1.7" stroke-linecap="round" stroke-linejoin="round"/><ellipse cx="72" cy="50" rx="8" ry="3" fill="#FFE9A8" stroke="#141A4D" stroke-width="1.7" stroke-linecap="round" stroke-linejoin="round"/><circle cx="80" cy="42.5" r="5" fill="#6BAF6E" stroke="#141A4D" stroke-width="1.6" stroke-linecap="round" stroke-linejoin="round"/><path d="M77.8 42.6l1.6 1.6 3-3.2" fill="none" stroke="#fff" stroke-width="1.6" stroke-linecap="round" stroke-linejoin="round"/></g>
+<circle cx="65" cy="58" r="4.6" fill="#E8B23A" stroke="#141A4D" stroke-width="2.2" stroke-linecap="round" stroke-linejoin="round"/>
+</g></svg><b>Fin</b><span class="role">Finance</span>
+      <span class="quip">&ldquo;Chases invoices, politely.&rdquo;</span>
       <div class="duty"><span class="dot" aria-hidden="true"></span>On duty &middot; 24/7</div>
       <div class="today">Today: 6 invoices raised</div>
     </article>
-    <article class="idc" style="--x:-354px;--r:15.0deg;z-index:7">
-      <svg class="mono" viewBox="0 0 48 48" aria-hidden="true" focusable="false"><use href="#mono-hana"/></svg><b>Hana</b><span class="role">HR</span>
+    <article class="idc wave-on" style="--x:-354px;--r:15.0deg;z-index:7">
+      <svg class="char " viewBox="0 0 90 90" width="84" height="84" style="--d:2.22s" aria-hidden="true" focusable="false">
+<g class="ch-bob">
+<g fill="#22827A" stroke="#141A4D" stroke-width="2.2" stroke-linecap="round" stroke-linejoin="round"><ellipse cx="33" cy="80" rx="7" ry="4.2"/><ellipse cx="51" cy="80" rx="7" ry="4.2"/></g>
+<g class="ch-wave"><ellipse cx="17.5" cy="55" rx="7" ry="4.6" transform="rotate(28 17.5 55)" fill="#2FA39A" stroke="#141A4D" stroke-width="2.2" stroke-linecap="round" stroke-linejoin="round"/></g>
+<ellipse cx="61.5" cy="57.5" rx="6.5" ry="4.4" transform="rotate(-25 61.5 57.5)" fill="#2FA39A" stroke="#141A4D" stroke-width="2.2" stroke-linecap="round" stroke-linejoin="round"/>
+<path d="M42 17C50 17 66 50 64 63C62 74 22 74 20 63C18 50 34 17 42 17Z" fill="#2FA39A" stroke="#141A4D" stroke-width="2.6" stroke-linecap="round" stroke-linejoin="round"/>
+<ellipse cx="42" cy="43.5" rx="14.5" ry="11" fill="#FBF7F2"/>
+<g class="ch-eyes"><path d="M31.8 42q3.2-4.6 6.4 0M45.8 42q3.2-4.6 6.4 0" fill="none" stroke="#141A4D" stroke-width="2.6" stroke-linecap="round" stroke-linejoin="round"/></g>
+<path d="M37.6 47.6q4.4 4.2 8.8 0" fill="none" stroke="#141A4D" stroke-width="2.3" stroke-linecap="round" stroke-linejoin="round"/>
+<ellipse cx="32.6" cy="47.2" rx="3.2" ry="1.9" fill="#FFA3CF" opacity=".9"/><ellipse cx="51.4" cy="47.2" rx="3.2" ry="1.9" fill="#FFA3CF" opacity=".9"/>
+
+<path d="M33.5 54.5L42 62L50.5 54.5" fill="none" stroke="#FF7A1F" stroke-width="2.3" stroke-linecap="round" stroke-linejoin="round"/>
+<rect x="36.5" y="61" width="11" height="11.5" rx="2" fill="#FBF7F2" stroke="#141A4D" stroke-width="1.5" stroke-linecap="round" stroke-linejoin="round"/><rect x="38.5" y="63.4" width="7" height="2.4" rx="1" fill="#2B3BD6"/><rect x="38.5" y="67.4" width="5" height="1.5" rx=".75" fill="#141A4D" opacity=".55"/>
+<g class="ch-prop pr-tilt"><rect x="61" y="40" width="17" height="22" rx="2.6" fill="#FBF7F2" stroke="#141A4D" stroke-width="2" stroke-linecap="round" stroke-linejoin="round"/><rect x="66" y="37.4" width="7" height="4.6" rx="1.6" fill="#141A4D"/><path d="M69.5 54.5c-2-1.5-3.7-2.7-3.7-4.3 0-1.1.9-1.9 1.9-1.9.8 0 1.4.4 1.8 1 .4-.6 1-1 1.8-1 1 0 1.9.8 1.9 1.9 0 1.6-1.7 2.8-3.7 4.3z" fill="#F27BB5" stroke="#141A4D" stroke-width=".8"/><path d="M65 58h9" stroke="#141A4D" stroke-width="1.3" stroke-linecap="round" stroke-linejoin="round"/></g>
+<circle cx="64.5" cy="57.5" r="4.6" fill="#2FA39A" stroke="#141A4D" stroke-width="2.2" stroke-linecap="round" stroke-linejoin="round"/>
+</g></svg><b>Hana</b><span class="role">HR</span>
+      <span class="quip">&ldquo;Answers the same question, happily.&rdquo;</span>
       <div class="duty"><span class="dot" aria-hidden="true"></span>On duty &middot; 24/7</div>
       <div class="today">Today: 9 staff questions answered</div>
     </article>
